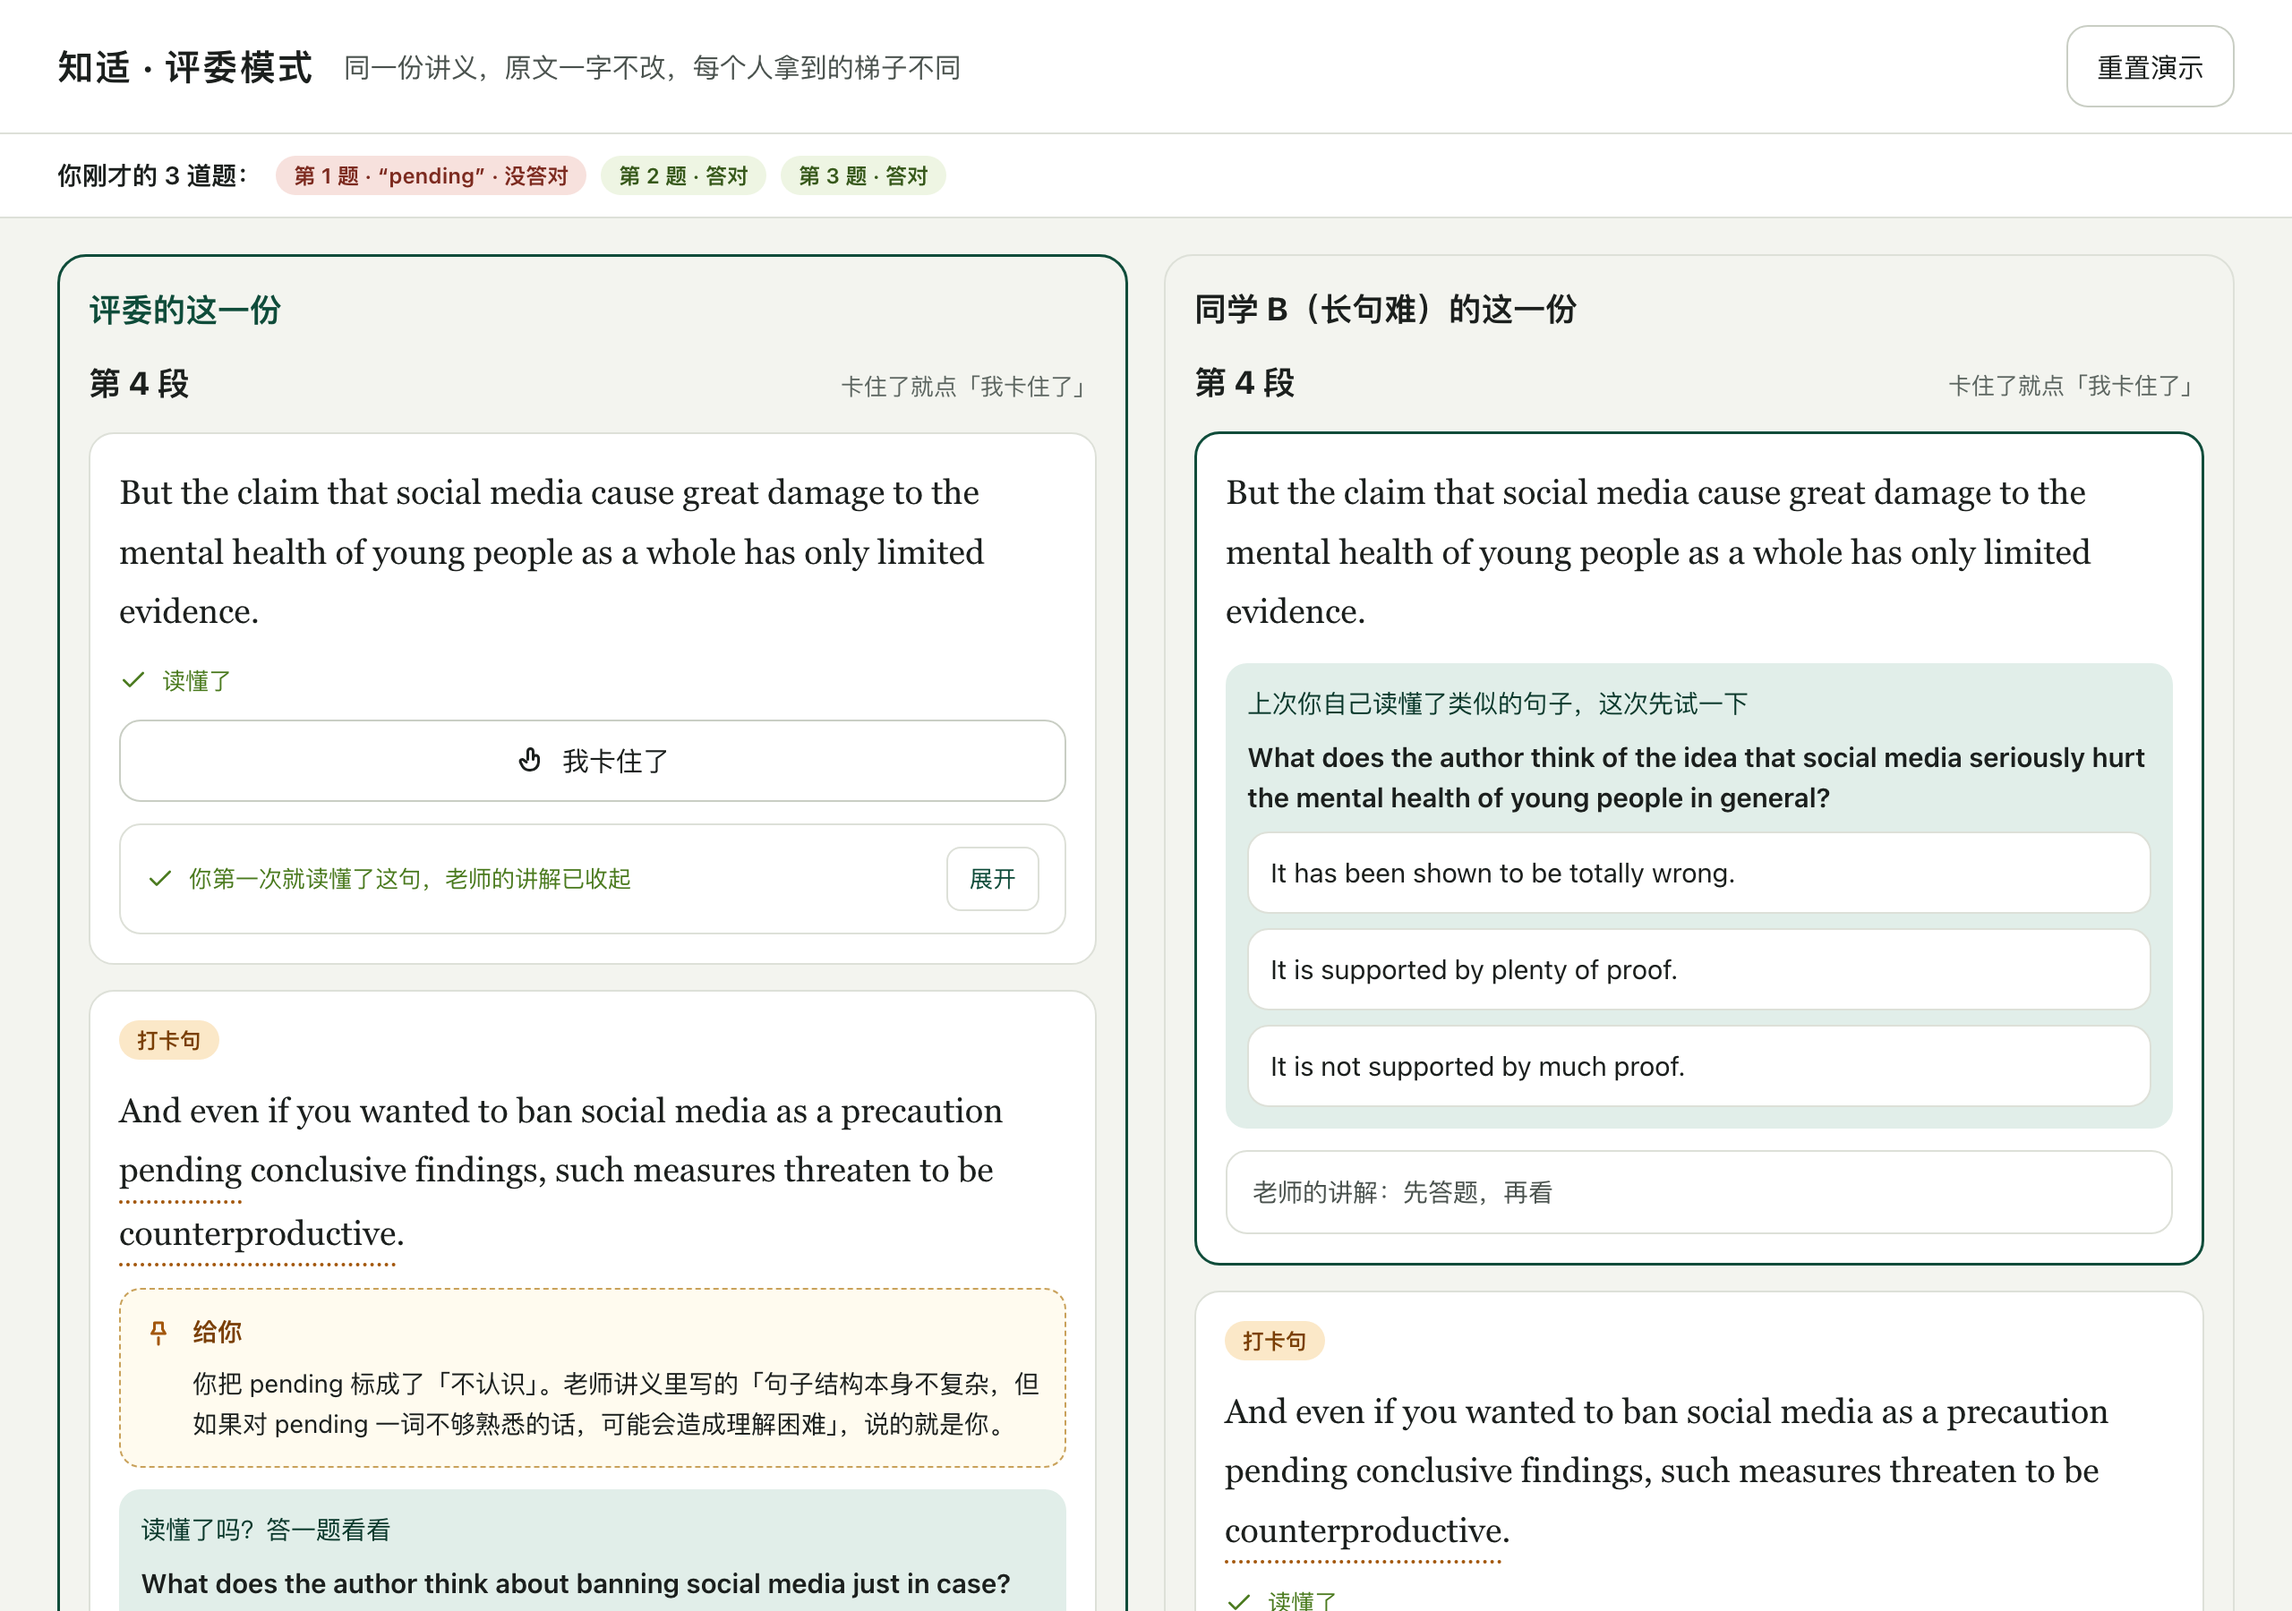
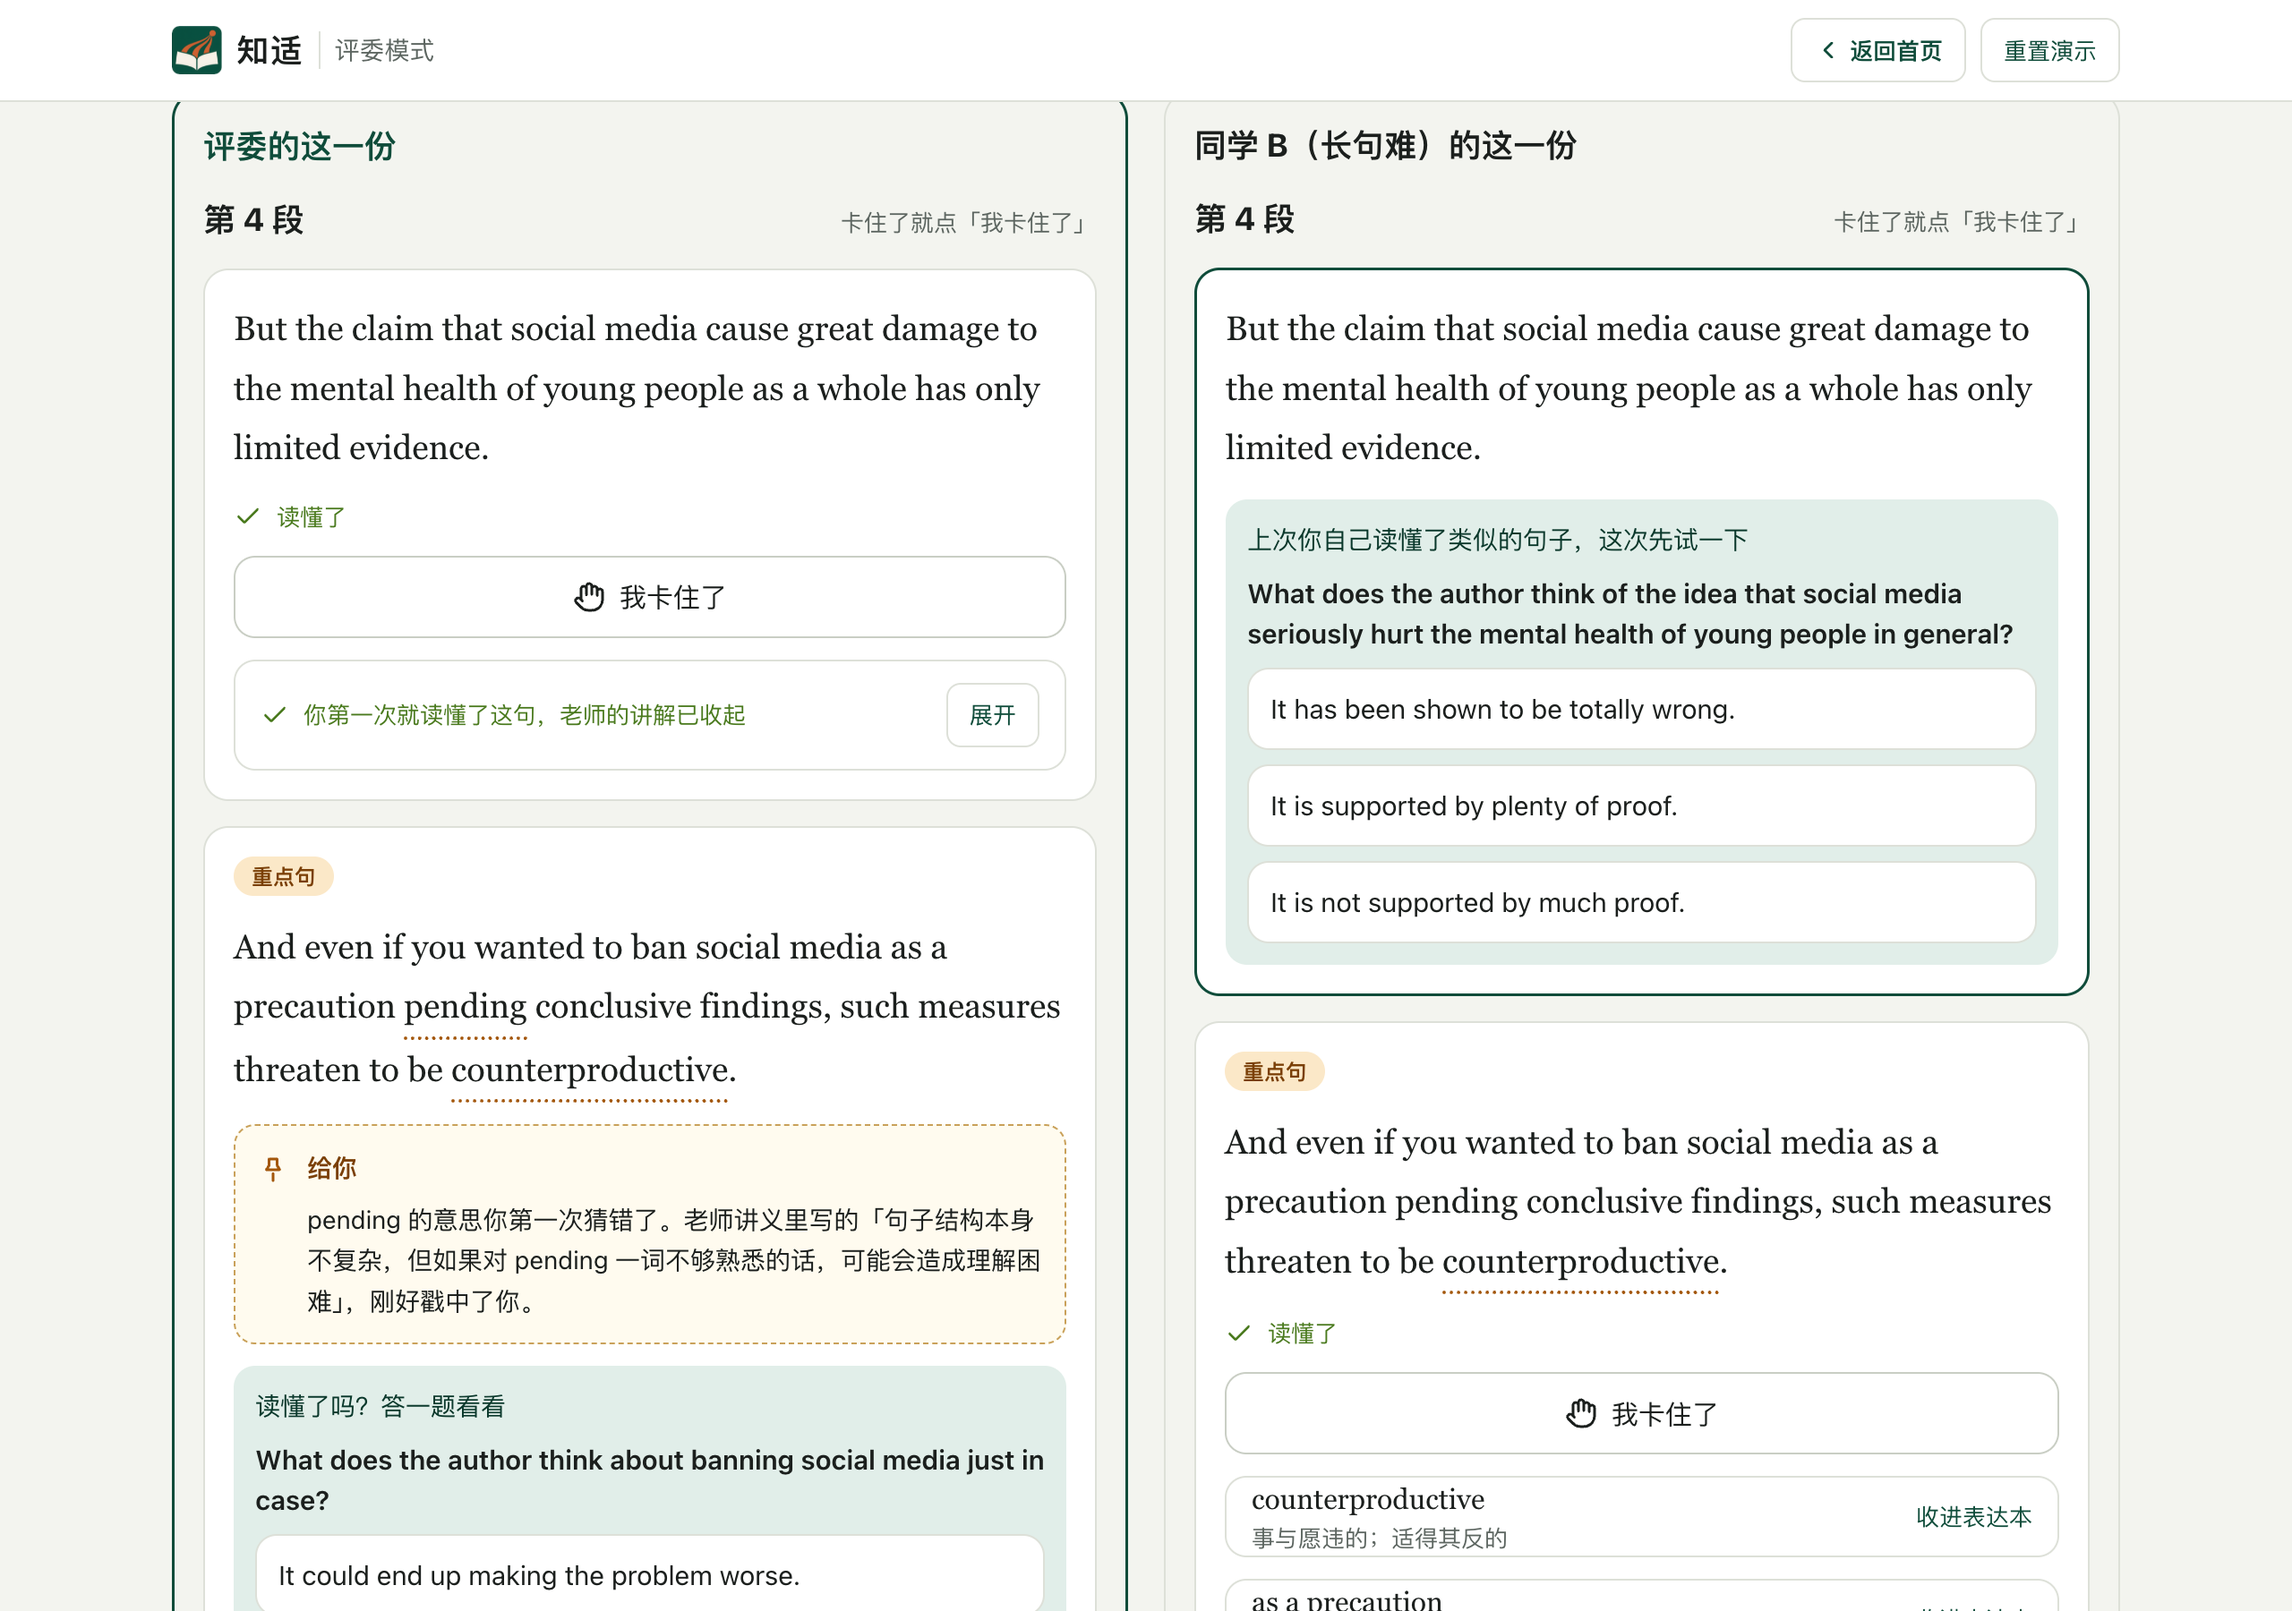
Screens 04 and 08 retaken on production with the 重点句 label (judge comparison; ladder step 2 on S17)

diff --git a/docs/assets/screens/README.md b/docs/assets/screens/README.md
@@ -7,14 +7,14 @@
 | `01-粗读-通读全文点生词.jpg` | 粗读：先通读全文，不认识的词点一下（已标记 3 个） | PPT「学生怎么用」 |
 | `02-粗读-提交后答错给提示.jpg` | 粗读答题：英文段意题，答错后在题下给出这一段并高亮主题句 | PPT「卡住才给提示」 |
 | `03-学生词-先猜后看.jpg` | **旧版，待重截**：词汇卡片，老师核心词「先猜后看」（英文题干、中文选项）。图上还是旧样式：步骤叫「学生词」、标签是「老师必练」、没有词性（现在是「词汇」「核心词」，卡片上标了词性） | 重截后用在 PPT「学生怎么用」 |
-| `04-评委模式-你的这一份.png` | 评委答完 3 道快题后，「评委的这一份」和「同学 B 的这一份」并排；左边有「给你」便签、讲解已收起。**改版上线后要重截**：右边同学 B 的 S16 下面还有「老师的讲解：先答题，再看」占位框，现在答题前不显示老师的讲解 | **PPT 核心页**、提交平台首图 |
+| `04-评委模式-你的这一份.png` | 评委模式（10-03 晚上在线上重截，1280×900 两倍图）：3 道快题第 1 题故意答错后，「评委的这一份」和「同学 B（长句难）的这一份」并排停在第 4 段。左边 S16「你第一次就读懂了这句，老师的讲解已收起」，S17 标着「重点句」、下面是「给你」便签（pending 猜错了，引的是老师讲义原话）；右边同学 B 的 S16 是「上次你自己读懂了类似的句子，这次先试一下」，答题前不显示老师的讲解 | **PPT 核心页**、提交平台首图 |
 | `05-老师端-示例班级.png` | 老师端：今天点评这几个人 + 卡点热力图（页面标着「示例数据」） | PPT「回响给老师」；有朋友真实数据后再换一张 |
 | `06-首页-电脑.png` | 首页（10-03 凌晨重截，1440×900 两倍图）：「把讲义里的『如果』，改成『你』」，下面一句大白话说清知适是什么、一行浅色原标语，再下面「我是学生」「我是老师」两张大卡片、「上传一篇文章 →」和「演示模式」开关（开着），右边是「如果 → 给你」对比卡 | 提交平台封面备选 |
 | `07-上传页.png` | 老师上传任意英文文章的表单（1280×900 两倍图）：标题可不填，不填由 AI 起一个 | PPT「老师怎么用」 |
-| `08-精读-读懂梯子.jpg` | **旧版，改版上线后要重截**：精读重点句（S17）：梯子第 1 步「谁 → 做了什么」，2、3 步待开。图上还是旧的第 2、3 步「换成正常语序」「用简单英文说一遍」和已经去掉的「初稿已交，提示都可以打开了」；表达那几行现在开过梯子、答对或收进表达本以后会显示中文 | 重截后用在 PPT「读懂梯子」 |
+| `08-精读-读懂梯子.jpg` | 精读（10-03 晚上在线上重截，手机 390×844 两倍图，同学 B 演示画像）：重点句 S17 开到梯子第 2 步「拆开」：整句原句分成几块，每块上面是大白话标签（补充说明、什么时候·在哪里、谁、做了什么），下面一行提示；梯子进度「谁 → 做了什么 · 拆开 · 译文」，下面是表达和老师的讲解 | PPT「读懂梯子」 |
 | `09-写作-表达检查.jpg` | 写作（10-03 凌晨重截，手机图）：用上本周表达，AI 判断用得对不对；下面「可能写错的地方」只引学生写的几个词、标出类型、提示该检查什么，不改写 | PPT「表达链」 |
 | `10-粗读-文章是怎么写的.jpg` | 粗读（手机图）：段意题全答对后出现「这篇文章是怎么写的」：骨架「提出观点 → 让步 → 反驳 → 给理由」，每段的作用和一句概括（AI 起草，供参考） | PPT「学生怎么用」或答辩时讲文章结构 |
 
 注意：01、02 的步骤条上也还是旧名「学生词」（10-02 改成「词汇」），用之前最好重截。老师端那张是示例数据，PPT 上要写明「示例」，或者等朋友试用满 5 人后换成真实数据截图。
 
-10-03 晚上之前截的图上还是旧名「打卡句」（04 两栏的 S17、08 左上角的胶囊），现在界面上叫「重点句」（issue #24）。
+04、08 已在 10-03 晚上按新界面重截（标签是「重点句」，issue #24）。
